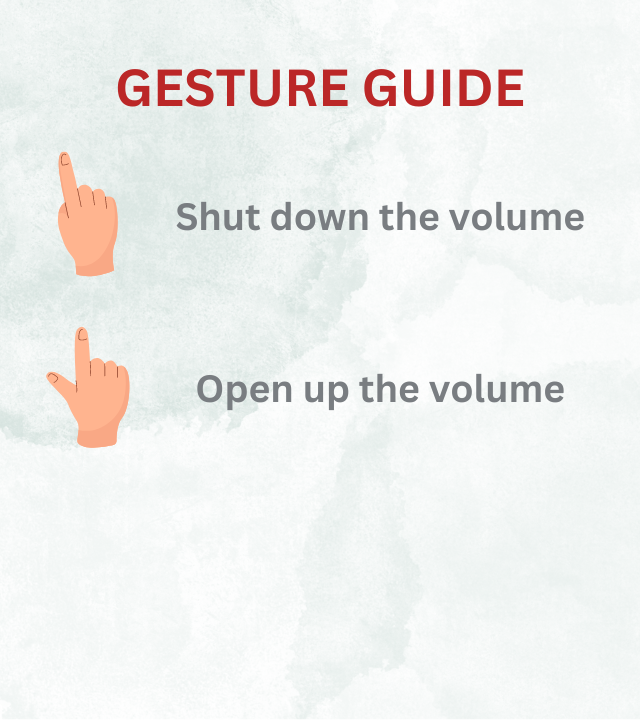
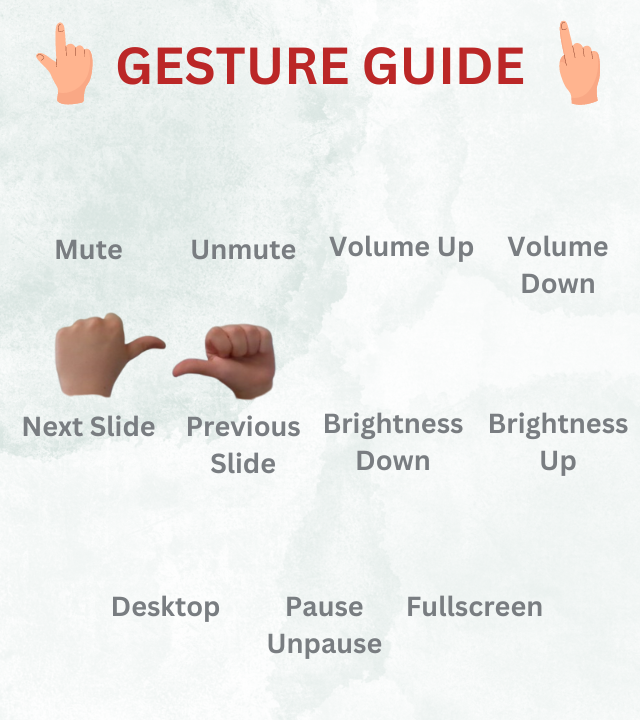
changed commands

diff --git a/interfacewithcommands.py b/interfacewithcommands.py
@@ -18,7 +18,7 @@ class CameraApp:
     def __init__(self, root, image_path):
         self.root = root
         self.root.title("Control with Gestures App")
-        self.root.geometry("1280x720")
+        self.root.geometry("1320x750")
 
         # Load the trained model
         self.model, self.label_map, self.reverse_label_map = self.load_model_and_labels()
@@ -90,11 +90,11 @@ class CameraApp:
         self.prediction_frames = []
         for i in range(3):
             frame = tk.Frame(bottom_image_frame, width=213, height=360)
-            frame.pack(side="left", padx=5, pady=5)
+            text_label = tk.Label(frame, text="", fg="gray33", font=("Helvetica", 20), pady=5)
+            text_label.pack()
+            frame.pack(side="right", padx=20, pady=5)
             image_label = tk.Label(frame)
             image_label.pack()
-            text_label = tk.Label(frame, text="", bg="white", font=("Helvetica", 16))
-            text_label.pack()
             self.prediction_frames.append((image_label, text_label))
 
         # Right frame
@@ -149,37 +149,110 @@ class CameraApp:
 
                 if confidence > 0.8:
                     match hand_sign:
-                        case "1":
-                            self.volume_shut()
-                            self.latest_predictions.append((cropped_hand, "volume shut", confidence))
+                        case "MUTE":
+                            self.mute()
+                            self.latest_predictions.append((cropped_hand, "Mute", confidence))
                             if len(self.latest_predictions) > 3:
                                 self.latest_predictions.pop(0)
                             self.display_latest_predictions()
                             self.buttonPressed = True
 
-                        case "2":
-                            self.volume_open()
-                            self.latest_predictions.append((cropped_hand, "volume open", confidence))
+                        case "UNMUTE":
+                            self.unmute()
+                            self.latest_predictions.append((cropped_hand, "Unmute", confidence))
                             if len(self.latest_predictions) > 3:
                                 self.latest_predictions.pop(0)
                             self.display_latest_predictions()
                             self.buttonPressed = True
+
+                        case "BRIGHTNESS_DOWN":
+                            self.brightness_down()
+                            self.latest_predictions.append((cropped_hand, "Brightness Down", confidence))
+                            if len(self.latest_predictions) > 3:
+                                self.latest_predictions.pop(0)
+                            self.display_latest_predictions()
+                            self.buttonPressed = True
+
+                        case "BRIGHTNESS_UP":
+                            self.brightness_up()
+                            self.latest_predictions.append((cropped_hand, "Brightness Up", confidence))
+                            if len(self.latest_predictions) > 3:
+                                self.latest_predictions.pop(0)
+                            self.display_latest_predictions()
+                            self.buttonPressed = True
+
+                        case "DESKTOP":
+                            self.desktop()
+                            self.latest_predictions.append((cropped_hand, "Desktop", confidence))
+                            if len(self.latest_predictions) > 3:
+                                self.latest_predictions.pop(0)
+                            self.display_latest_predictions()
+                            self.buttonPressed = True
+
+                        case "FULLSCREEN":
+                            self.fullscreen()
+                            self.latest_predictions.append((cropped_hand, "Fullscreen", confidence))
+                            if len(self.latest_predictions) > 3:
+                                self.latest_predictions.pop(0)
+                            self.display_latest_predictions()
+                            self.buttonPressed = True
+
+                        case "NEXT_SLIDE":
+                            self.next_slide()
+                            self.latest_predictions.append((cropped_hand, "Next Slide", confidence))
+                            if len(self.latest_predictions) > 3:
+                                self.latest_predictions.pop(0)
+                            self.display_latest_predictions()
+                            self.buttonPressed = True
+
+                        case "PREVIOUS_SLIDE":
+                            self.previous_slide()
+                            self.latest_predictions.append((cropped_hand, "Previous Slide", confidence))
+                            if len(self.latest_predictions) > 3:
+                                self.latest_predictions.pop(0)
+                            self.display_latest_predictions()
+                            self.buttonPressed = True
+
+                        case "PAUSE_UNPAUSE":
+                            self.pause_unpause()
+                            self.latest_predictions.append((cropped_hand, "Pause Unpause", confidence))
+                            if len(self.latest_predictions) > 3:
+                                self.latest_predictions.pop(0)
+                            self.display_latest_predictions()
+                            self.buttonPressed = True
+
+                        case "VOLUME_UP":
+                            self.volume_up()
+                            self.latest_predictions.append((cropped_hand, "Volume Up", confidence))
+                            if len(self.latest_predictions) > 3:
+                                self.latest_predictions.pop(0)
+                            self.display_latest_predictions()
+                            self.buttonPressed = True
+
+                        case "VOLUME_DOWN":
+                            self.volume_down()
+                            self.latest_predictions.append((cropped_hand, "Volume Down", confidence))
+                            if len(self.latest_predictions) > 3:
+                                self.latest_predictions.pop(0)
+                            self.display_latest_predictions()
+                            self.buttonPressed = True
+
 
     # Displays the latest three predictions on the GUI.
     def display_latest_predictions(self):
         for i, (image_label, text_label) in enumerate(self.prediction_frames):
             if i < len(self.latest_predictions):
                 cropped_hand, hand_sign, _ = self.latest_predictions[i]
-                img = cv2.resize(cropped_hand, (200, 200))
+                img = cv2.resize(cropped_hand, (150,150))
                 img = Image.fromarray(cv2.cvtColor(img, cv2.COLOR_BGR2RGB))
                 imgtk = ImageTk.PhotoImage(image=img)
 
                 image_label.imgtk = imgtk
                 image_label.config(image=imgtk)
-                #text_label.config(text=hand_sign)
+                text_label.config(text=hand_sign)
             else:
                 image_label.config(image="")
-                #text_label.config(text="")
+                text_label.config(text="")
 
     # Captures frames from the camera, processes them, and updates the GUI.
     def update_camera(self):
@@ -199,20 +272,10 @@ class CameraApp:
                     self.buttonCounter = 0
                     self.buttonPressed = False
 
-            self.display_predictions(frame)
             self.draw_threshold_line(frame)
             self.update_image_label(self.camera_label, frame)
 
         self.root.after(10, self.update_camera)
-
-    # Displays text predictions on the camera frame.
-    def display_predictions(self, frame):
-        x_position = 15
-        y_position = 475
-        for _, command, confidence in reversed(self.latest_predictions):
-            cv2.putText(frame, f"{command} ", (x_position, y_position),
-                        cv2.FONT_HERSHEY_SIMPLEX, 0.8, (255, 255, 255), 2, cv2.LINE_AA)
-            x_position += 225
 
     # Draws a threshold line on the camera frame.
     def draw_threshold_line(self, frame):
@@ -225,15 +288,14 @@ class CameraApp:
         label.imgtk = imgtk
         label.config(image=imgtk)
 
-
     # COMMAND FUNCTIONS
-    def volume_shut(self):
+    def mute(self):
         devices = AudioUtilities.GetSpeakers()
         interface = devices.Activate(IAudioEndpointVolume._iid_, CLSCTX_ALL, None)
         volume = cast(interface, POINTER(IAudioEndpointVolume))
         volume.SetMute(1, None)
 
-    def volume_open(self):
+    def unmute(self):
         devices = AudioUtilities.GetSpeakers()
         interface = devices.Activate(IAudioEndpointVolume._iid_, CLSCTX_ALL, None)
         volume = cast(interface, POINTER(IAudioEndpointVolume))
@@ -267,18 +329,20 @@ class CameraApp:
         subprocess.run(["powershell",
                         f"(Get-WmiObject -Namespace root/WMI -Class WmiMonitorBrightnessMethods).WmiSetBrightness(1,{new_brightness})"])
 
-    def lock_pc(self):
-        ctypes.windll.user32.LockWorkStation()
+    def desktop(self):
+        pyautogui.hotkey('winleft', 'd')
 
-    def play_pause_media(self):
+    def pause_unpause(self):
         pyautogui.press("playpause")
 
-    def presentation_next(self):
+    def next_slide(self):
         pyautogui.press("right")
 
-    def presentation_before(self):
+    def previous_slide(self):
         pyautogui.press("left")
 
+    def fullscreen(self):
+        pyautogui.hotkey('win', 'up')
 
     # Handles the closing of the application.
     def on_closing(self):
